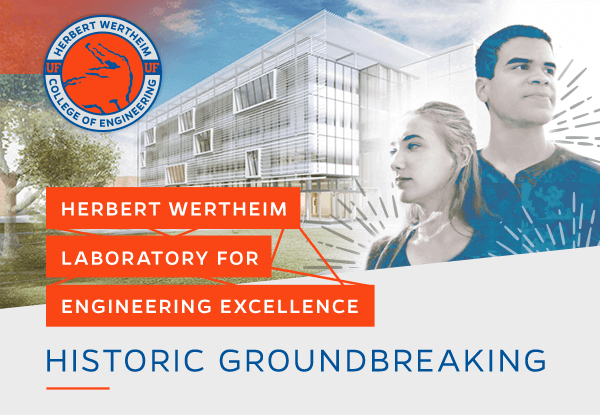
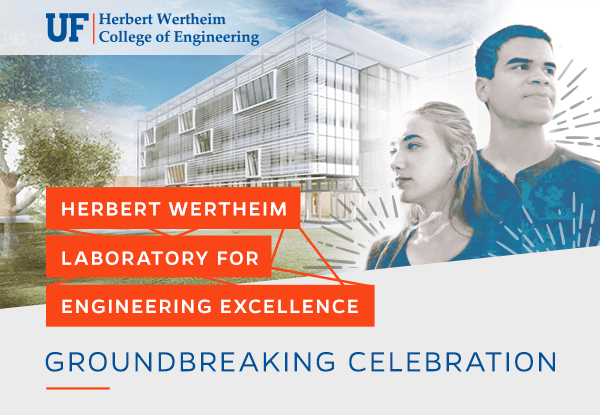
dean's requested revisions

diff --git a/groundbreaking/groundbreaking-std-inlined.html b/groundbreaking/groundbreaking-std-inlined.html
@@ -76,7 +76,7 @@
 		}
 
 		.content {
-			padding: 0px;
+			padding: 0px 0px 9px 0px;
 			font-family: Helvetica, Arial, sans-serif; 
 			font-size:14px;
 			line-height:22px;
@@ -224,7 +224,7 @@
 					</tr>
 					<tr>
 						<td class="img" bgcolor="#ebebeb" style="padding-top: 0;padding-left: 0;padding-bottom: 0;padding-right: 0;font-family: Helvetica, Arial, sans-serif;font-size: 24px;">
-							<a href="https://www.eng.ufl.edu/about/transformation/herbert-wertheim-laboratory-for-engineering-excellence/" title="Save the date - Oct. 6, 2016" target="_blank" style="color: #fa4616;"><img src="https://www.eng.ufl.edu/eblasts/groundbreaking/images/groundbreaking-std-header.png" align="left" alt="Save the date: October 6 | Historic groundbreaking &amp; stakeholders dinner" width="600" height="415" border="0" class="header-image" style="height: auto;display: block;margin: 0;padding: 0;border: 0;max-width: 600px;vertical-align: bottom;outline: none;text-decoration: none;"></a>
+							<a href="https://www.eng.ufl.edu/about/transformation/herbert-wertheim-laboratory-for-engineering-excellence/" title="Save the date - Oct. 6, 2016" target="_blank" style="color: #fa4616;"><img src="https://www.eng.ufl.edu/eblasts/groundbreaking/images/groundbreaking-std-header.png" align="left" alt="Save the date: October 6 | Groundbreaking Celebration" width="600" height="415" border="0" class="header-image" style="height: auto;display: block;margin: 0;padding: 0;border: 0;max-width: 600px;vertical-align: bottom;outline: none;text-decoration: none;"></a>
 						</td>
 					</tr>
 					<tr>
@@ -232,7 +232,7 @@
 							<table border="0" width="100%" cellpadding="0" cellspacing="0" style="border-collapse:collapse;">
 								<tr>
 									<td class="lead" style="padding-top: 0;padding-left: 0;padding-bottom: 0;padding-right: 0;padding: 18px 0px 0px 0px;font-family: Helvetica, Arial, sans-serif;font-size: 20px;line-height: 28px;color: #005496;">
-										<strong>Let&rsquo;s celebrate!</strong> Witness history as we break ground on UF&rsquo;s newest addition &ndash; the <strong>Herbert Wertheim Laboratory for Engineering Excellence.</strong>
+										<strong>Join us</strong> as we break ground on UF&rsquo;s newest addition &ndash; the <strong>Herbert Wertheim Laboratory for Engineering Excellence.</strong>
 									</td>
 								</tr>
 								<tr>
@@ -248,7 +248,7 @@
 								</tr>
 								<tr>
 									<td class="header1" style="padding-top: 0;padding-left: 0;padding-bottom: 0;padding-right: 0;padding: 9px 0px;color: #003663;font-family: Helvetica, Arial, sans-serif;font-size: 14px;line-height: 22px;font-weight: bold;">
-										Our flagship building, an 80,000 sq.ft. state-of-the-art research and educational environment located in the heart of campus.
+										An 80,000 sq.ft. state-of-the-art research and educational environment located in the heart of campus.
 									</td>
 								</tr>
 								<tr>
@@ -257,49 +257,28 @@
 									</td>
 								</tr>
 								<tr>
-									<td class="content" style="padding-top: 0;padding-left: 0;padding-bottom: 0;padding-right: 0;padding: 0px;font-family: Helvetica, Arial, sans-serif;font-size: 14px;line-height: 22px;color: #003663;">
-										<table width="100%" border="0" cellspacing="0" cellpadding="0">
-											<tr>
-												<td align="left" valign="top" width="70" style="padding-top: 0;padding-left: 0;padding-bottom: 0;padding-right: 0;">
-													<img src="https://www.eng.ufl.edu/eblasts/groundbreaking/images/icon-classrooms.png" width="50" height="50" border="0" alt="Classrooms" style="height: auto;">
-												</td>
-												<td style="padding-top: 0;padding-left: 0;padding-bottom: 0;padding-right: 0;">
-													<strong>Classrooms and tools</strong> to benefit all engineering students, from freshman design labs to senior capstone design courses
-												</td>
-											</tr>
-											<tr>
-												<td align="left" valign="top" style="padding-top: 0;padding-left: 0;padding-bottom: 0;padding-right: 0;">
-													<img src="https://www.eng.ufl.edu/eblasts/groundbreaking/images/icon-collision.png" width="50" height="50" border="0" alt="Collision Spaces" style="height: auto;">
-												</td>
-												<td style="padding-top: 0;padding-left: 0;padding-bottom: 0;padding-right: 0;">
-													Faculty and student <strong>collision spaces</strong> to encourage cross-disciplinary collaboration
-												</td>
-											</tr>
-											<tr>
-												<td align="left" valign="top" style="padding-top: 0;padding-left: 0;padding-bottom: 0;padding-right: 0;">
-													<img src="https://www.eng.ufl.edu/eblasts/groundbreaking/images/icon-biotech.png" width="50" height="50" border="0" alt="Biotech Lab" style="height: auto;">
-												</td>
-												<td style="padding-top: 0;padding-left: 0;padding-bottom: 0;padding-right: 0;">
-													State-of-the-art <strong>biotech lab</strong> to engineer solutions to overcome cancer, cardiovascular and muscular system disorders, and neurodegenerative diseases
-												</td>
-											</tr>
-											<tr>
-												<td align="left" valign="top" style="padding-top: 0;padding-left: 0;padding-bottom: 0;padding-right: 0;">
-													<img src="https://www.eng.ufl.edu/eblasts/groundbreaking/images/icon-prototyping.png" width="50" height="50" border="0" alt="Prototyping Labs" style="height: auto;">
-												</td>
-												<td style="padding-top: 0;padding-left: 0;padding-bottom: 0;padding-right: 0;">
-													<strong>Prototyping labs</strong> to enhance hands-on learning while bringing big ideas to fruition
-												</td>
-											</tr>
-											<tr>
-												<td align="left" valign="top" style="padding-top: 0;padding-left: 0;padding-bottom: 0;padding-right: 0;">
-													<img src="https://www.eng.ufl.edu/eblasts/groundbreaking/images/icon-telepresence.png" width="50" height="50" border="0" alt="Telepresence Lab" style="height: auto;">
-												</td>
-												<td style="padding-top: 0;padding-left: 0;padding-bottom: 0;padding-right: 0;">
-													<strong>Telepresence lab</strong> to build 21st century communication and networking skills
-												</td>
-											</tr>
-										</table>
+									<td class="content" style="padding-top: 0;padding-left: 0;padding-bottom: 0;padding-right: 0;padding: 0px 0px 9px 0px;font-family: Helvetica, Arial, sans-serif;font-size: 14px;line-height: 22px;color: #003663;">
+										<strong>Classrooms and tools</strong> to benefit all engineering students, from freshman design labs to team-based learning facilities
+									</td>
+								</tr>
+								<tr>
+									<td class="content" style="padding-top: 0;padding-left: 0;padding-bottom: 0;padding-right: 0;padding: 0px 0px 9px 0px;font-family: Helvetica, Arial, sans-serif;font-size: 14px;line-height: 22px;color: #003663;">
+										Faculty and student <strong>collision spaces</strong> to encourage cross-disciplinary collaboration
+									</td>
+								</tr>
+								<tr>
+									<td class="content" style="padding-top: 0;padding-left: 0;padding-bottom: 0;padding-right: 0;padding: 0px 0px 9px 0px;font-family: Helvetica, Arial, sans-serif;font-size: 14px;line-height: 22px;color: #003663;">
+										State-of-the-art <strong>biotech lab</strong> to engineer solutions to overcome cancer, cardiovascular and muscular system disorders, and neurodegenerative diseases
+									</td>
+								</tr>
+								<tr>
+									<td class="content" style="padding-top: 0;padding-left: 0;padding-bottom: 0;padding-right: 0;padding: 0px 0px 9px 0px;font-family: Helvetica, Arial, sans-serif;font-size: 14px;line-height: 22px;color: #003663;">
+										<strong>Prototyping labs</strong> to enhance hands-on learning while bringing big ideas to fruition
+									</td>
+								</tr>
+								<tr>
+									<td class="content" style="padding-top: 0;padding-left: 0;padding-bottom: 0;padding-right: 0;padding: 0px 0px 9px 0px;font-family: Helvetica, Arial, sans-serif;font-size: 14px;line-height: 22px;color: #003663;">
+										Immersive <strong>telepresence facility</strong> to build 21st century communication and networking skills
 									</td>
 								</tr>
 								<tr>
@@ -331,14 +310,14 @@
 						<td class="footer" bgcolor="#005496" align="center" style="padding-top: 0;padding-left: 0;padding-bottom: 0;padding-right: 0;padding: 18px 18px 9px 18px;">
 							<table border="0" cellpadding="0" cellspacing="0" align="left" class="column-content" style="width: 265px;">
 								<tr>
-									<td class="content" valign="top" style="padding-right: 20px;padding-top: 0;padding-left: 0;padding-bottom: 0;padding: 0px;font-family: Helvetica, Arial, sans-serif;font-size: 14px;line-height: 22px;color: #003663;">
+									<td class="content" valign="top" style="padding-right: 20px;padding-top: 0;padding-left: 0;padding-bottom: 0;padding: 0px 0px 9px 0px;font-family: Helvetica, Arial, sans-serif;font-size: 14px;line-height: 22px;color: #003663;">
 										<a href="https://www.eng.ufl.edu" title="Herbert Wertheim College of Engineering" target="_blank" style="color: #fa4616;"><img src="https://www.eng.ufl.edu/eblasts/groundbreaking/images/hwcoe-logo.png" width="265" height="63" border="0" alt="Herbert Wertheim College of Engineering" class="column-image" style="height: auto;display: block;margin-bottom: 6px;max-width: 260px;"></a>
 									</td>
 								</tr>
 							</table>
 							<table border="0" cellpadding="0" cellspacing="0" align="right" class="column-content" style="width: 265px;">
 								<tr>
-									<td class="content" valign="top" style="padding-top: 0;padding-left: 0;padding-bottom: 0;padding-right: 0;padding: 0px;font-family: Helvetica, Arial, sans-serif;font-size: 14px;line-height: 22px;color: #003663;">
+									<td class="content" valign="top" style="padding-top: 0;padding-left: 0;padding-bottom: 0;padding-right: 0;padding: 0px 0px 9px 0px;font-family: Helvetica, Arial, sans-serif;font-size: 14px;line-height: 22px;color: #003663;">
 										<a href="https://www.eng.ufl.edu/about/transformation/" title="Powering the New Engineer to Transform the Future" target="_blank" style="color: #fa4616;"><img src="https://www.eng.ufl.edu/eblasts/groundbreaking/images/pne-tf.png" width="265" height="63" border="0" align="left" class="column-image" alt="Powering the New Engineer to Transform the Future" style="height: auto;display: block;margin-bottom: 6px;max-width: 260px;"></a>
 									</td>
 								</tr>

diff --git a/groundbreaking/groundbreaking-std.html b/groundbreaking/groundbreaking-std.html
@@ -76,7 +76,7 @@
 		}
 
 		.content {
-			padding: 0px;
+			padding: 0px 0px 9px 0px;
 			font-family: Helvetica, Arial, sans-serif; 
 			font-size:14px;
 			line-height:22px;
@@ -224,7 +224,7 @@
 					</tr>
 					<tr>
 						<td class="img" bgcolor="#ebebeb">
-							<a href="https://www.eng.ufl.edu/about/transformation/herbert-wertheim-laboratory-for-engineering-excellence/" title="Save the date - Oct. 6, 2016" target="_blank"><img src="https://www.eng.ufl.edu/eblasts/groundbreaking/images/groundbreaking-std-header.png" align="left" alt="Save the date: October 6 | Historic groundbreaking &amp; stakeholders dinner" width="600" height="415" border="0" class="header-image" /></a>
+							<a href="https://www.eng.ufl.edu/about/transformation/herbert-wertheim-laboratory-for-engineering-excellence/" title="Save the date - Oct. 6, 2016" target="_blank"><img src="https://www.eng.ufl.edu/eblasts/groundbreaking/images/groundbreaking-std-header.png" align="left" alt="Save the date: October 6 | Groundbreaking Celebration" width="600" height="415" border="0" class="header-image" /></a>
 						</td>
 					</tr>
 					<tr>
@@ -232,7 +232,7 @@
 							<table border="0" width="100%" cellpadding="0" cellspacing="0" style="border-collapse:collapse;">
 								<tr>
 									<td class="lead">
-										<strong>Let&rsquo;s celebrate!</strong> Witness history as we break ground on UF&rsquo;s newest addition &ndash; the <strong>Herbert Wertheim Laboratory for Engineering Excellence.</strong>
+										<strong>Join us</strong> as we break ground on UF&rsquo;s newest addition &ndash; the <strong>Herbert Wertheim Laboratory for Engineering Excellence.</strong>
 									</td>
 								</tr>
 								<tr>
@@ -248,7 +248,7 @@
 								</tr>
 								<tr>
 									<td class="header1">
-										Our flagship building, an 80,000 sq.ft. state-of-the-art research and educational environment located in the heart of campus.
+										An 80,000 sq.ft. state-of-the-art research and educational environment located in the heart of campus.
 									</td>
 								</tr>
 								<tr>
@@ -258,48 +258,27 @@
 								</tr>
 								<tr>
 									<td class="content">
-										<table width="100%" border="0" cellspacing="0" cellpadding="0">
-											<tr>
-												<td align="left" valign="top" width="70">
-													<img src="https://www.eng.ufl.edu/eblasts/groundbreaking/images/icon-classrooms.png" width="50" height="50" border="0" alt="Classrooms" />
-												</td>
-												<td>
-													<strong>Classrooms and tools</strong> to benefit all engineering students, from freshman design labs to senior capstone design courses
-												</td>
-											</tr>
-											<tr>
-												<td align="left" valign="top">
-													<img src="https://www.eng.ufl.edu/eblasts/groundbreaking/images/icon-collision.png" width="50" height="50" border="0" alt="Collision Spaces" />
-												</td>
-												<td>
-													Faculty and student <strong>collision spaces</strong> to encourage cross-disciplinary collaboration
-												</td>
-											</tr>
-											<tr>
-												<td align="left" valign="top">
-													<img src="https://www.eng.ufl.edu/eblasts/groundbreaking/images/icon-biotech.png" width="50" height="50" border="0" alt="Biotech Lab" />
-												</td>
-												<td>
-													State-of-the-art <strong>biotech lab</strong> to engineer solutions to overcome cancer, cardiovascular and muscular system disorders, and neurodegenerative diseases
-												</td>
-											</tr>
-											<tr>
-												<td align="left" valign="top">
-													<img src="https://www.eng.ufl.edu/eblasts/groundbreaking/images/icon-prototyping.png" width="50" height="50" border="0" alt="Prototyping Labs" />
-												</td>
-												<td>
-													<strong>Prototyping labs</strong> to enhance hands-on learning while bringing big ideas to fruition
-												</td>
-											</tr>
-											<tr>
-												<td align="left" valign="top">
-													<img src="https://www.eng.ufl.edu/eblasts/groundbreaking/images/icon-telepresence.png" width="50" height="50" border="0" alt="Telepresence Lab" />
-												</td>
-												<td>
-													<strong>Telepresence lab</strong> to build 21st century communication and networking skills
-												</td>
-											</tr>
-										</table>
+										<strong>Classrooms and tools</strong> to benefit all engineering students, from freshman design labs to team-based learning facilities
+									</td>
+								</tr>
+								<tr>
+									<td class="content">
+										Faculty and student <strong>collision spaces</strong> to encourage cross-disciplinary collaboration
+									</td>
+								</tr>
+								<tr>
+									<td class="content">
+										State-of-the-art <strong>biotech lab</strong> to engineer solutions to overcome cancer, cardiovascular and muscular system disorders, and neurodegenerative diseases
+									</td>
+								</tr>
+								<tr>
+									<td class="content">
+										<strong>Prototyping labs</strong> to enhance hands-on learning while bringing big ideas to fruition
+									</td>
+								</tr>
+								<tr>
+									<td class="content">
+										Immersive <strong>telepresence facility</strong> to build 21st century communication and networking skills
 									</td>
 								</tr>
 								<tr>
